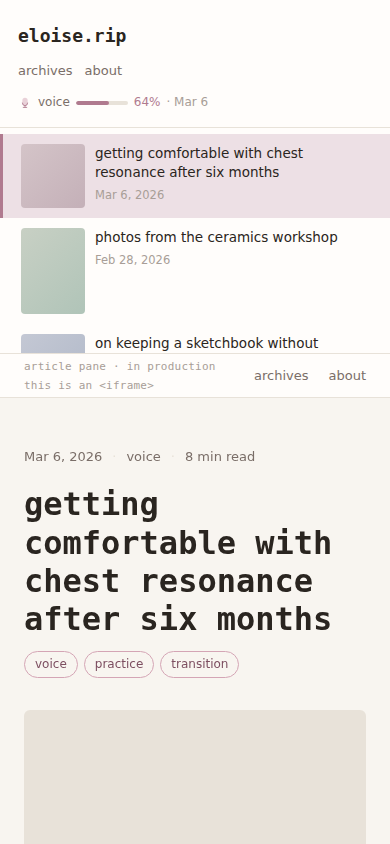
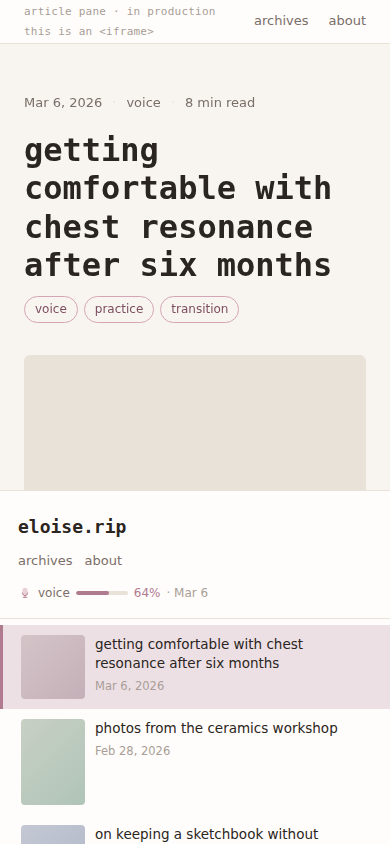
fix: content pane above list on mobile
Swap stacking order in portrait layout — article content on top,
article list below (order: -1 on .pane-content). Updates planning
doc and mobile screenshot.

https://claude.ai/code/session_01RBE1sNZUeLmMS6RRo6Spsb

diff --git a/docs/theme-mockup.html b/docs/theme-mockup.html
@@ -403,13 +403,18 @@ pre code { background: none; border: none; padding: 0; font-size: inherit; color
 /* ── responsive ── */
 @media (max-width: 768px) {
   .shell { flex-direction: column; }
+  .pane-content {
+    order: -1;
+    flex: 1;
+    min-height: 0;
+  }
   .pane-list {
     width: 100%;
     max-height: 42vh;
     border-right: none;
-    border-bottom: 1px solid var(--color-border);
+    border-top: 1px solid var(--color-border);
+    border-bottom: none;
   }
-  .pane-content { flex: 1; min-height: 0; }
 }
 </style>
 </head>

diff --git a/docs/theme-planning.md b/docs/theme-planning.md
@@ -207,8 +207,8 @@ The homepage is a two-column split pane inspired by RSS reader UIs (Reeder, NetN
 
 - **Breakpoints**: 768px (pane switch), 480px (further text scaling)
 - **Navigation on mobile**: At ≤768px, the split pane collapses:
-  - Left pane (article list) stacks on top, height `auto` (shows ~3–4 items before scroll)
-  - Right pane (iframe) below, `height: 60vh` minimum
+  - Right pane (iframe / content) on top via `order: -1`, takes `flex: 1`
+  - Left pane (article list) below, `max-height: 42vh`, scrollable; `border-top` separator
   - No hamburger menu needed — nav links remain visible in left pane header
 - **Article card on mobile**: same thumbnail + title layout, thumbnail stays 64×64px
 - **Font size scaling**: no `vw`-based scaling. Base 16px stays; headings step down one size at 480px (H1: 1.6rem).
@@ -344,7 +344,7 @@ No social link icons unless social URLs are added to config. No theme toggle ico
 | 2026-03-08 | Surface | Barely-there shadow | No border; cards float softly |
 | 2026-03-08 | Homepage layout | Split pane (list + iframe) | RSS reader UX; list left, article right |
 | 2026-03-08 | URL behavior | No pushState | Homepage stays `/`; articles have own pages |
-| 2026-03-08 | Mobile layout | Stacked (list top, iframe bottom) | Both panes visible, vertically arranged |
+| 2026-03-08 | Mobile layout | Stacked (content top, list bottom) | Content visible immediately; list scrolls below |
 | 2026-03-08 | Card aspect-adapt | Landscape/portrait thumbnail rows | Card height adapts to image aspect ratio |
 | 2026-03-08 | Icons | Phosphor (duotone + regular) | Expressive but minimal; duotone adds depth |
 | 2026-03-08 | Motion | Very subtle — 150ms opacity/translate | Matches minimal aesthetic; near-invisible |
